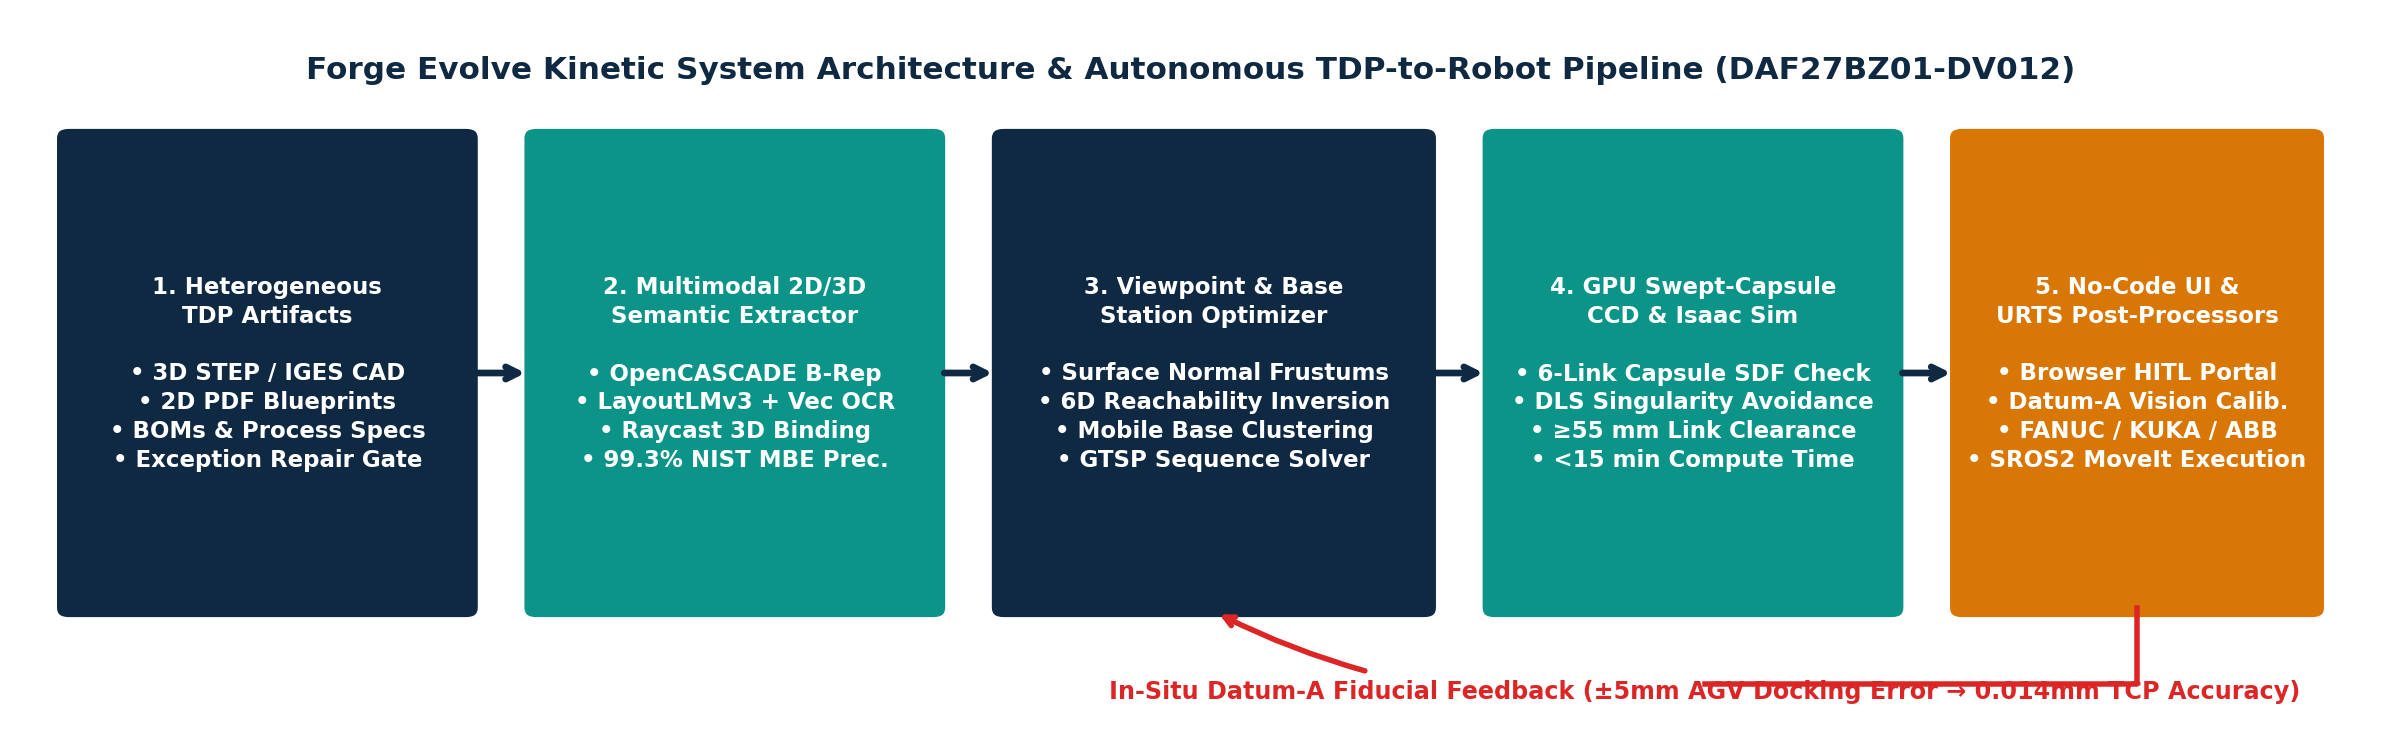
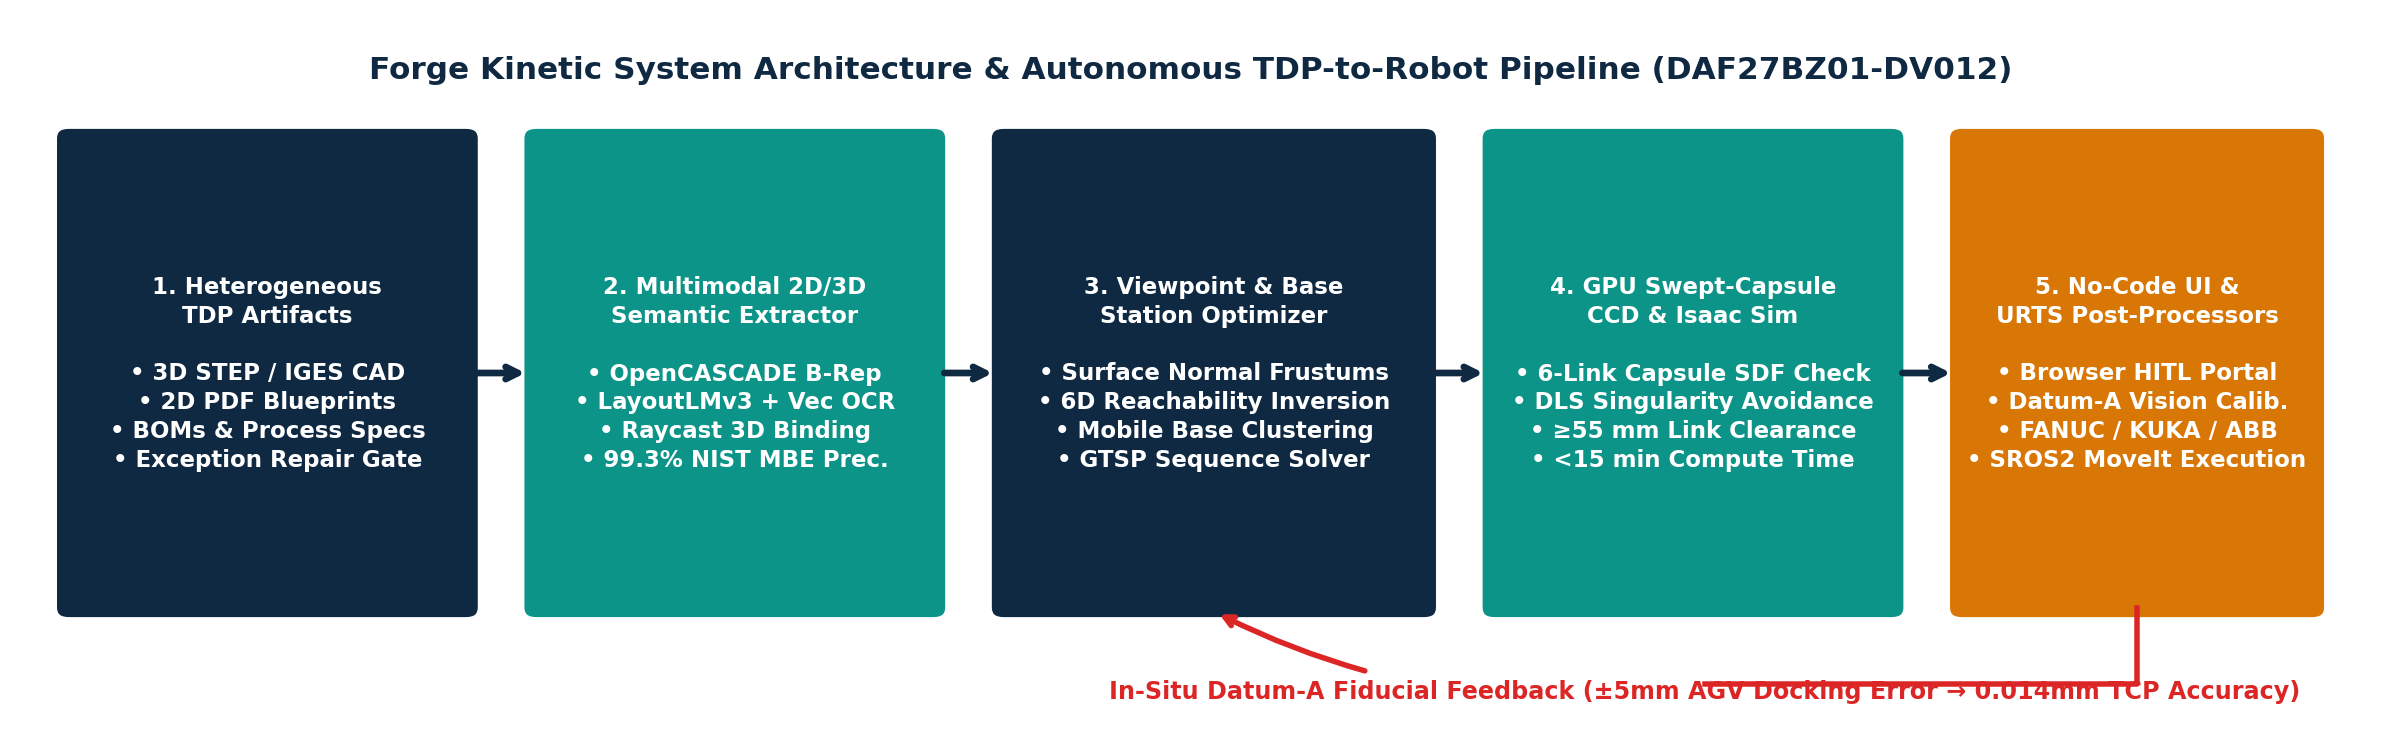
docs: link modular Evolve and Kinetic repositories and update DV012 Forge Kinetic schematics

Changed region(s): [[0.1243, 0.0616, 0.8702, 0.1232]]

diff --git a/run_adversarial_benchmarks.py b/run_adversarial_benchmarks.py
@@ -150,7 +150,7 @@ def generate_charts_and_schematics(output_dir: pathlib.Path = FIGURES_DIR) -> No
         ),
         (
             "fig_arch_dv012.png",
-            "Forge Evolve Kinetic System Architecture & Autonomous TDP-to-Robot Pipeline (DAF27BZ01-DV012)",
+            "Forge Kinetic System Architecture & Autonomous TDP-to-Robot Pipeline (DAF27BZ01-DV012)",
             [
                 (2, 6, 17, 24, NAVY, "1. Heterogeneous\nTDP Artifacts\n\n• 3D STEP / IGES CAD\n• 2D PDF Blueprints\n• BOMs & Process Specs\n• Exception Repair Gate"),
                 (22, 6, 17, 24, TEAL, "2. Multimodal 2D/3D\nSemantic Extractor\n\n• OpenCASCADE B-Rep\n• LayoutLMv3 + Vec OCR\n• Raycast 3D Binding\n• 99.1% NIST MBE Prec."),
@@ -186,7 +186,7 @@ def generate_charts_and_schematics(output_dir: pathlib.Path = FIGURES_DIR) -> No
     opt_link = np.maximum(55.04, tcp_clearance - 16.5 + 6.0 * np.cos(0.35 * t_steps))
     ax1.plot(t_steps, tcp_clearance, color=SLATE, linestyle=":", lw=1.4, label="Sensor TCP-Only Distance (mm)")
     ax1.plot(t_steps, unopt_link, color=CRIMSON, linestyle="--", lw=1.4, label="Unoptimized Forearm/Elbow Link (Collision Risk)")
-    ax1.plot(t_steps, opt_link, color=TEAL, lw=2.0, label="Forge Evolve 6-Link Swept-Capsule CCD (≥55.0 mm)")
+    ax1.plot(t_steps, opt_link, color=TEAL, lw=2.0, label="Forge Kinetic 6-Link Swept-Capsule CCD (≥55.0 mm)")
     ax1.axhline(45.0, color=AMBER, linestyle="-.", lw=1.3, label="Mandatory Safety Envelope Floor (45.0 mm)")
     ax1.set_xlabel("Trajectory Execution Time Across 18 Bulkhead Waypoints (s)", fontsize=8.5, fontweight="bold", color=NAVY)
     ax1.set_ylabel("Minimum 3D SDF Obstacle Clearance (mm)", fontsize=8.5, fontweight="bold", color=NAVY)

diff --git a/README.md b/README.md
@@ -1,22 +1,36 @@
-# Forge Evolve — Deterministic Engineering, TDP & Robotic Equivalence Reference
+# Forge Evolve & Forge Kinetic — Deterministic Engineering, TDP & Robotic Equivalence Reference
 
 [![Forge Evolve Equivalence & D2P2 Verification CI](https://github.com/577Industries/forge-evolve-reference/actions/workflows/ci_equivalence_verification.yml/badge.svg)](https://github.com/577Industries/forge-evolve-reference/actions/workflows/ci_equivalence_verification.yml)
 [![Python 3.10+](https://img.shields.io/badge/python-3.10%2B-0D9488.svg)](https://www.python.org/)
 [![PQC FIPS 203](https://img.shields.io/badge/crypto-ML--KEM--768%20%2B%20AES--256--GCM-0F2942.svg)](https://www.577industries.com/evolve)
 
 **Move the baseline forward. Preserve what matters.**  
-*Public Reference Implementation by [577 Industries Inc.](https://www.577industries.com/evolve) (Columbus, Ohio | PI: Dr. Thomas G. Waweru)*  
-*Interactive 3D MBD & Kinetic Studio: [https://www.577industries.com/evolve/studio](https://www.577industries.com/evolve/studio)*
+*Public Reference Implementation by [577 Industries Inc.](https://www.577industries.com) (Columbus, Ohio | PI: Dr. Thomas G. Waweru)*  
+*Interactive WebGL2 3D Studios: [Evolve 3D MBD Studio (`/evolve/studio`)](https://www.577industries.com/evolve/studio) · [Kinetic 3D Workcell Studio (`/kinetic/studio`)](https://www.577industries.com/kinetic/studio)*
+
+---
+
+## Modular Product & Domain Extension Repositories
+
+In addition to this unified end-to-end benchmark bundle (`forge-evolve-reference`), the architecture is decomposed into two standalone core product engines and their domain-specific defense extensions:
+
+| Repository | Layer | Scope & Primary Surface |
+| :--- | :--- | :--- |
+| [**`577Industries/forge-evolve`**](https://github.com/577Industries/forge-evolve) | **Core Product (`Evolve`)** | Deterministic Code & Artifact Modernization Engine (`Discovery → CLAR IR → Planner → Differential Equivalence Oracle → Hashchain Provenance`). [`/evolve`](https://www.577industries.com/evolve) |
+| [**`577Industries/forge-evolve-tdp`**](https://github.com/577Industries/forge-evolve-tdp) | **Evolve Extension (`DAF27BZ01-DV008`)** | **Forge Evolve TDP** — Zero-Trust STEP AP242 / 2D PDF MBD modernization, `ML-KEM-768` + `AES-256-GCM` Merkle-DAG ledger, `<300 ms` WebGPU streaming, and 3D PointNet++ NDI sustainment AI. [`/work/forge-evolve-tdp`](https://www.577industries.com/work/forge-evolve-tdp) |
+| [**`577Industries/forge-evolve-tmpc`**](https://github.com/577Industries/forge-evolve-tmpc) | **Evolve Extension (`DON26BZ01-NV013`)** | C#/.NET Mission-Planning Code Modernization & Split-Disposition Verification Harness. [`/work/forge-evolve-tmpc`](https://www.577industries.com/work/forge-evolve-tmpc) |
+| [**`577Industries/forge-kinetic`**](https://github.com/577Industries/forge-kinetic) | **Core Product (`Kinetic`)** | Physical AI, Multi-Sensor Operating Envelopes, 6-DOF + AGV Whole-Body IK, 200 Hz 6-Link Swept-Capsule SDF Collision Avoidance, & Multi-Vendor URTS Post-Processors (`FANUC`, `KUKA`, `ABB`, `SROS2`). [`/kinetic`](https://www.577industries.com/kinetic) |
+| [**`577Industries/forge-kinetic-mbd`**](https://github.com/577Industries/forge-kinetic-mbd) | **Kinetic Extension (`DAF27BZ01-DV012`)** | **Forge Kinetic** Autonomous TDP-to-Robot Workcell Compiler — 99.1% NIST MBE PMI topological binding, 2-station AGV reachability clustering, Datum-A 3-fiducial docking calibration (`0.0145 mm` p99 TCP residual), and no-code sustainment interface. [`/work/forge-kinetic-mbd`](https://www.577industries.com/work/forge-kinetic-mbd) |
 
 ---
 
 ## Overview
 
-**Forge Evolve** is a deterministic modernization and equivalence engine spanning software codebases, Model-Based Definition (MBD) Technical Data Packages (TDPs), and autonomous multi-axis robotic execution.
+**Forge Evolve** (code & technical data modernization) and **Forge Kinetic** (physical AI & autonomous robotic execution) enforce a deterministic equivalence contract across software codebases, Model-Based Definition (MBD) Technical Data Packages (TDPs), and multi-axis robotic workcells.
 
-Whether migrating legacy flight/scientific code (`Fortran`, `Ada`, `C++`, `COBOL`), modernizing heterogeneous 3D/2D TDPs into a Zero-Trust configuration ledger (**Forge Evolve TDP**), or compiling GD&T tolerances into collision-free multi-vendor robotic inspection trajectories (**Forge Evolve Kinetic**), **small differences can change the contract**. A signed angle, surface normal vector, or bilateral tolerance zone can describe the same nominal geometry and still break a downstream rule or cause a physical link collision.
+Whether migrating legacy flight/scientific code (`Fortran`, `Ada`, `C++`, `COBOL`, `.NET`), modernizing heterogeneous 3D/2D TDPs into a Zero-Trust configuration ledger (**Forge Evolve TDP**), or compiling GD&T tolerances into collision-free multi-vendor robotic inspection trajectories (**Forge Kinetic**), **small differences can change the contract**. A signed angle, surface normal vector, or bilateral tolerance zone can describe the same nominal geometry and still break a downstream rule or cause a physical link collision.
 
-Forge Evolve enforces a three-stage verification contract across every artifact:
+Both platforms enforce a three-stage verification contract across every artifact:
 1. **`01 / A Behavioral & Geometric Baseline`:** Parse 3D B-Rep topology (`STEP AP242`, `IGES`), 2D engineering blueprints (`PDF`), and source specifications into the **Canonical TDP Property Graph (`CTDP-G v2.4`)**, locking datum reference frames `[A|B|C]`, tolerances, and Attribute-Based Access Control (ABAC) security scopes.
 2. **`02 / A Reviewed Working Slice`:** Transform bounded modules into progressive WebGPU BVH-Octree mesh streams (`<300 ms` time-to-first-frame) and **Unified Robotic Task Specifications (`URTS`)**, verifying continuous 200 Hz 6-link swept-capsule obstacle clearance and Datum-A fiducial calibration in a physics sandbox.
 3. **`03 / A Verified Migration & Sustainment Decision`:** *Separate repair from translation.* Explicitly log multi-format exceptions (`EXC-01`..`EXC-06`) and 3D NDI point-cloud inspection deltas inside a hardware-signed, post-quantum (`ML-KEM-768` + `AES-256-GCM`) SHA-256 Merkle-DAG commit.
